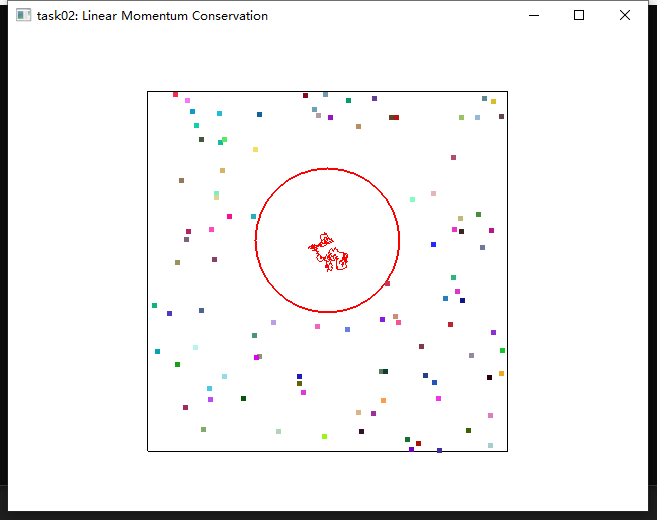
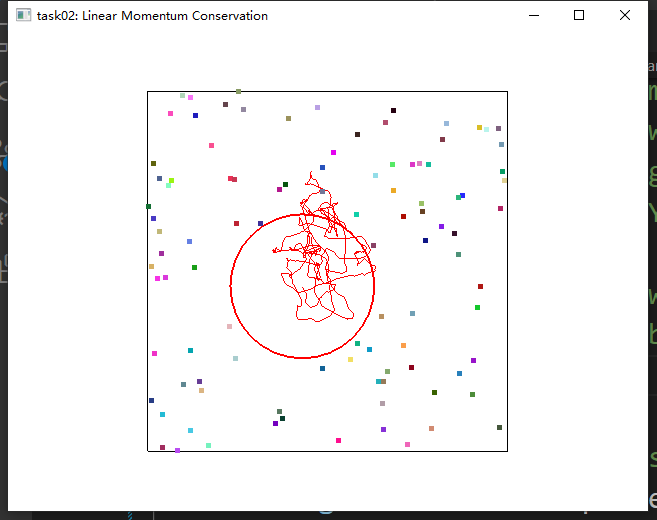
asfafqw

diff --git a/task02/main.cpp b/task02/main.cpp
@@ -60,8 +60,8 @@ void collide_particle_ball(
 
   // write a few lines of code to compute the velocity of ball and particle
   // please uncomment the lines below
-  const Eigen::Vector2f impulse = particle_mass * p.velo - ball_mass * ball_velo;
-  p.velo += - 1.f * impulse / particle_mass;
+  const Eigen::Vector2f impulse = 2 * particle_mass * ball_mass * (1.f * p.velo.dot(plane_norm) * plane_norm - 1.f * ball_velo.dot(plane_norm) * plane_norm) / (ball_mass + particle_mass);
+  p.velo += -1.f * impulse / particle_mass;
   ball_velo += 1.f * impulse / ball_mass;
 }
 
